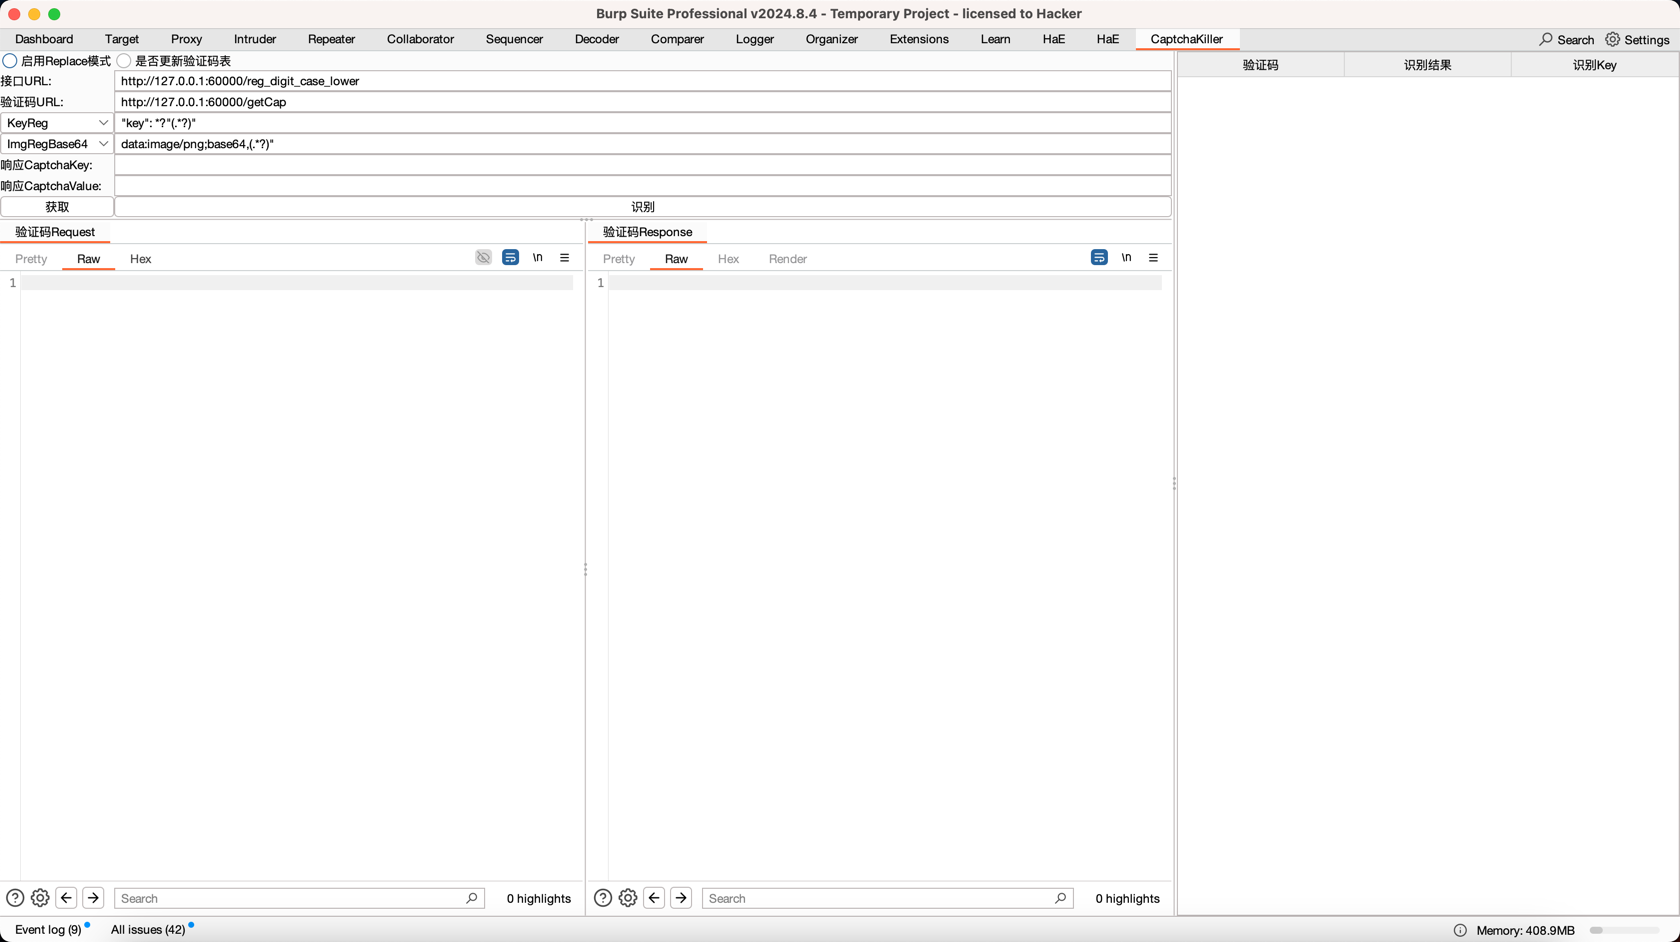
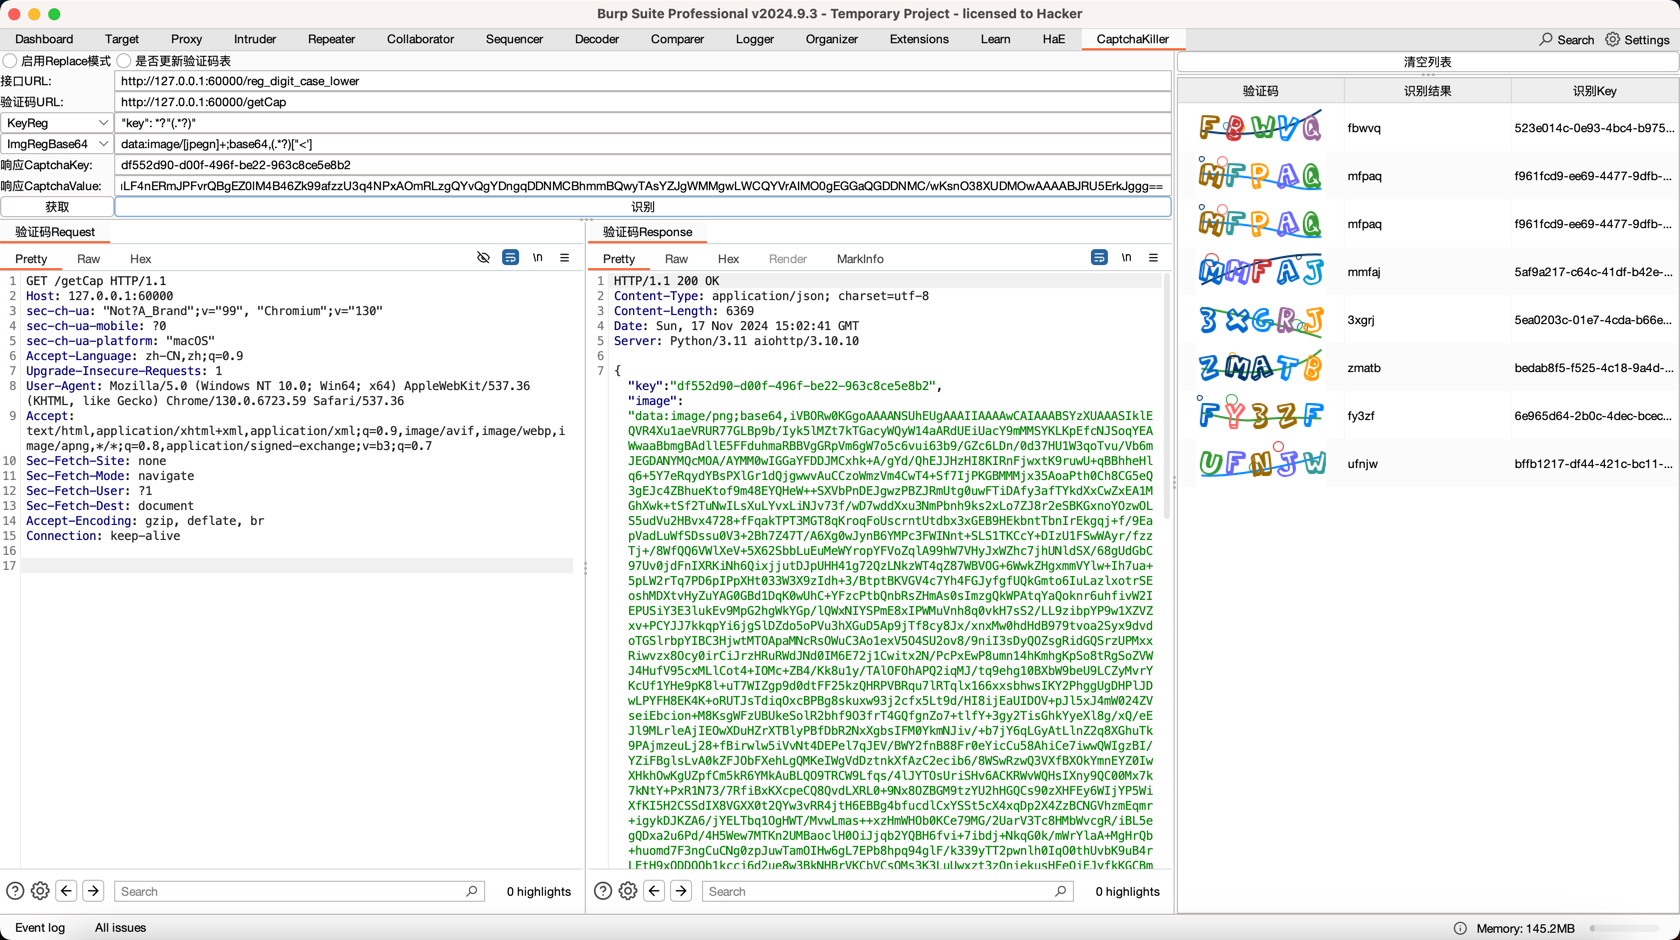
修改简介

diff --git a/README.md b/README.md
@@ -42,7 +42,7 @@ Python >=3.7，
 
 对应Burp功能，会不断的请求验证码数据包获取完整的验证码，该功能安装后持续可用
 
-![img_2.png](doc/img_2.png)
+![img.png](doc/img_2.png)
 
 ## Replace模式
 
@@ -51,23 +51,24 @@ Python >=3.7，
 
 # 演示
 
-
 ![img_1.png](doc/img_1.png)
-
-![img.png](doc/img.png)
 
 ## PayloadGen模式
 
-![img_3.png](doc/img_3.png)
+![img_2.png](doc/img_2.png)
 
 后端数据包如下：
 
-![img_4.png](doc/img_4.png)
+可以正确识别验证码和验证码关键字
+
+![img_3.png](doc/img_3.png)
 
 ## Replace模式
 
-![img_5.png](doc/img_5.png)
+![img_4.png](doc/img_4.png)
 
 后端数据包如下：
 
-![img_6.png](doc/img_6.png)
+可以正确识别验证码和验证码关键字
+
+![img_5.png](doc/img_5.png)
